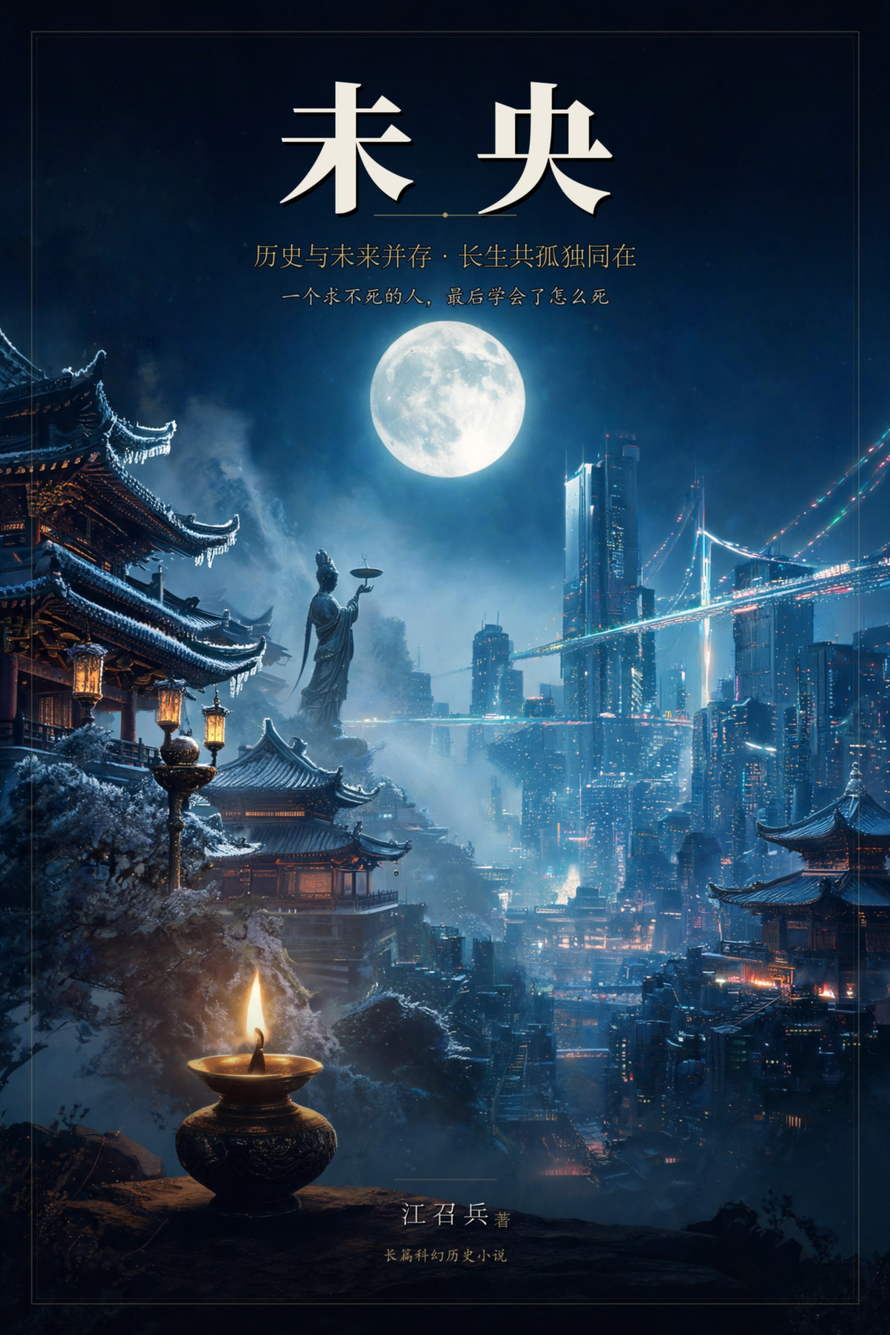
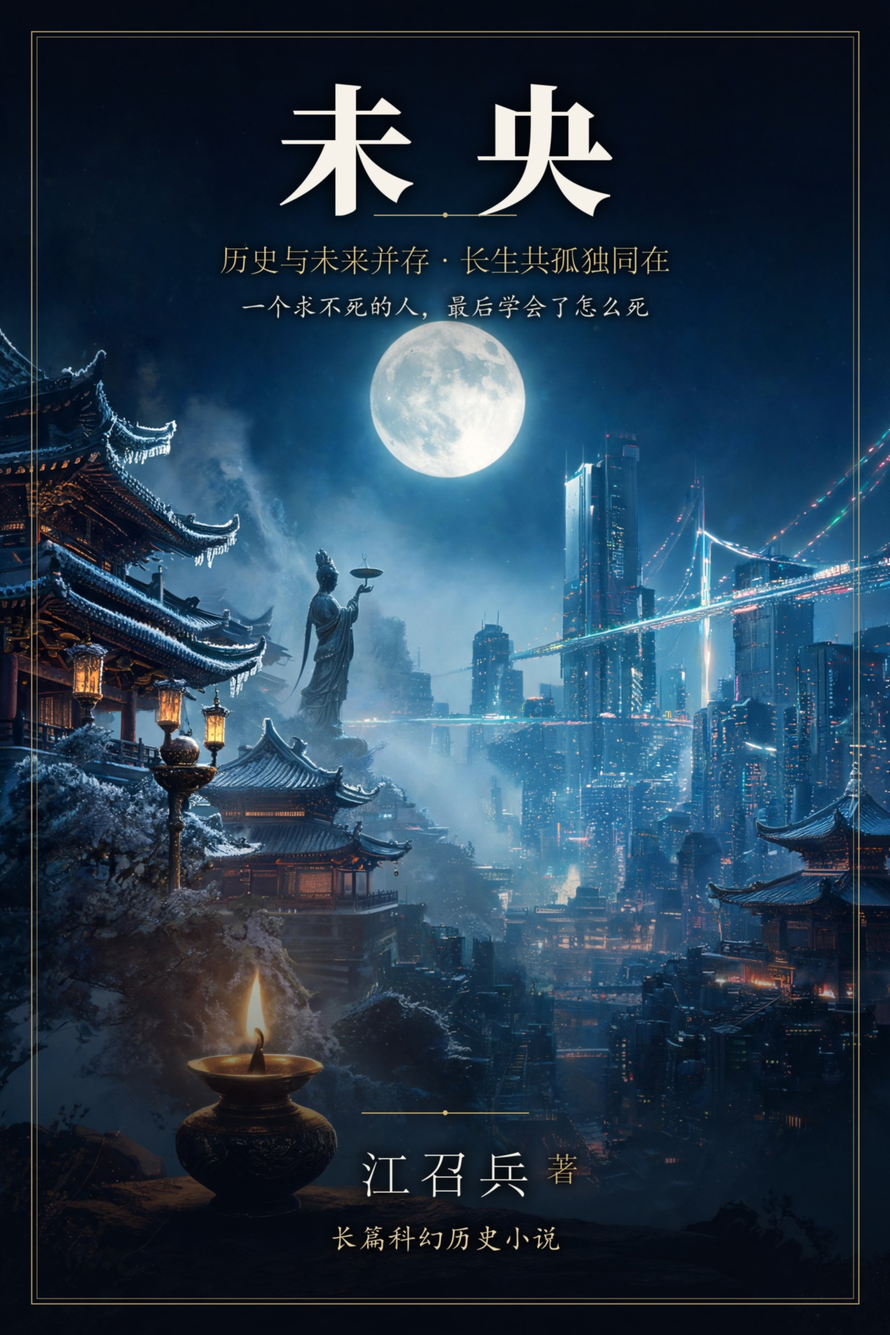
Cover v5: enlarge author and genre lines, add text halos for legibility

diff --git a/books/weiyang/index.html b/books/weiyang/index.html
@@ -17,7 +17,7 @@
 <meta property="og:url" content="https://ZhaobingJiang.github.io/books/weiyang/">
 <meta property="og:title" content="未央 · 长篇科幻历史小说">
 <meta property="og:description" content="一个求不死的人，最后学会了怎么死。五卷七十章，约二十六万字。">
-<meta property="og:image" content="https://ZhaobingJiang.github.io/books/weiyang/cover.jpg">
+<meta property="og:image" content="https://ZhaobingJiang.github.io/books/weiyang/cover.jpg?v=2">
 <meta name="twitter:card" content="summary_large_image">
 <script type="application/ld+json">
 {"@context":"https://schema.org","@graph":[
@@ -78,7 +78,7 @@
 
 <main class="reader">
   <div class="book-head">
-    <img class="web-cover" src="cover.jpg" alt="《未央》封面：江召兵著，长篇科幻历史小说" width="640" height="960">
+    <img class="web-cover" src="cover.jpg?v=2" alt="《未央》封面：江召兵著，长篇科幻历史小说" width="640" height="960">
     <h1 class="t">未 央</h1>
     <div class="s">历史与未来并存 · 长生共孤独同在</div>
     <div class="a">江召兵　著</div>

diff --git a/books/index.html b/books/index.html
@@ -414,7 +414,7 @@
 
         <article class="book-card" id="book-8">
           <figure class="book-figure">
-            <img src="./weiyang/cover.jpg" alt="Cover of Weiyang (Unending)" width="1200" height="1800">
+            <img src="./weiyang/cover.jpg?v=2" alt="Cover of Weiyang (Unending)" width="1200" height="1800">
             <figcaption>2026 &middot; Five volumes, seventy chapters</figcaption>
           </figure>
           <div class="book-body">

diff --git a/zh/books.html b/zh/books.html
@@ -414,7 +414,7 @@
 
         <article class="book-card" id="book-8">
           <figure class="book-figure">
-            <img src="../books/weiyang/cover.jpg" alt="《未央》封面" width="1200" height="1800">
+            <img src="../books/weiyang/cover.jpg?v=2" alt="《未央》封面" width="1200" height="1800">
             <figcaption>2026 · 五卷七十章</figcaption>
           </figure>
           <div class="book-body">

diff --git a/scripts/build_weiyang_reader.py b/scripts/build_weiyang_reader.py
@@ -187,7 +187,7 @@ def build():
 <meta property="og:url" content="https://ZhaobingJiang.github.io/books/weiyang/">
 <meta property="og:title" content="未央 · 长篇科幻历史小说">
 <meta property="og:description" content="一个求不死的人，最后学会了怎么死。五卷七十章，约二十六万字。">
-<meta property="og:image" content="https://ZhaobingJiang.github.io/books/weiyang/cover.jpg">
+<meta property="og:image" content="https://ZhaobingJiang.github.io/books/weiyang/cover.jpg?v=2">
 <meta name="twitter:card" content="summary_large_image">
 <script type="application/ld+json">
 {"@context":"https://schema.org","@graph":[
@@ -248,7 +248,7 @@ def build():
 
 <main class="reader">
   <div class="book-head">
-    <img class="web-cover" src="cover.jpg" alt="《未央》封面：江召兵著，长篇科幻历史小说" width="640" height="960">
+    <img class="web-cover" src="cover.jpg?v=2" alt="《未央》封面：江召兵著，长篇科幻历史小说" width="640" height="960">
     <h1 class="t">未 央</h1>
     <div class="s">历史与未来并存 · 长生共孤独同在</div>
     <div class="a">江召兵　著</div>
